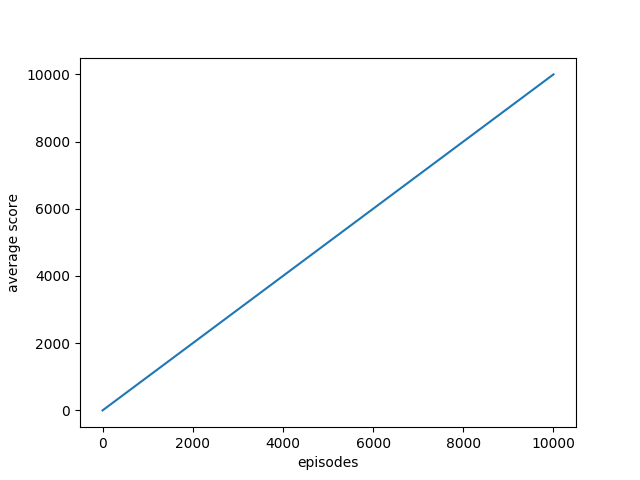
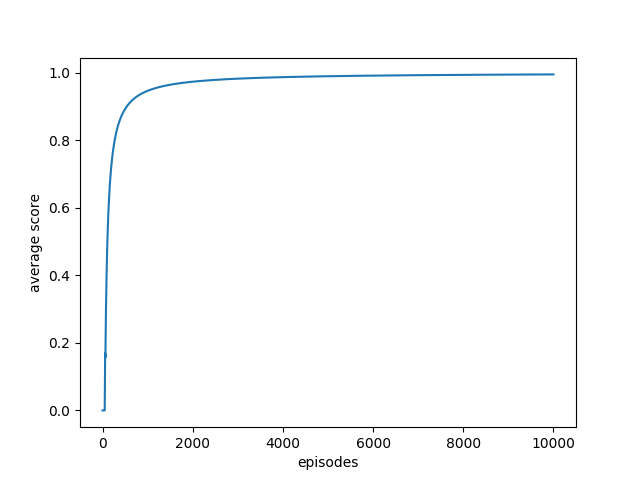
fix plots

diff --git a/q1.py b/q1.py
@@ -70,7 +70,7 @@ def rmax(env, gamma, m, R_max, epsilon, num_episodes, max_step = 6):
             t += 1
         avg_scores[episode] = total_score / (episode + 1)
 
-    plt.plot(range(num_episodes))
+    plt.plot(avg_scores)
     plt.xlabel('episodes')
     plt.ylabel('average score')
     plt.savefig('rmax_avg_scores_m=' + str(m) + '.png')
